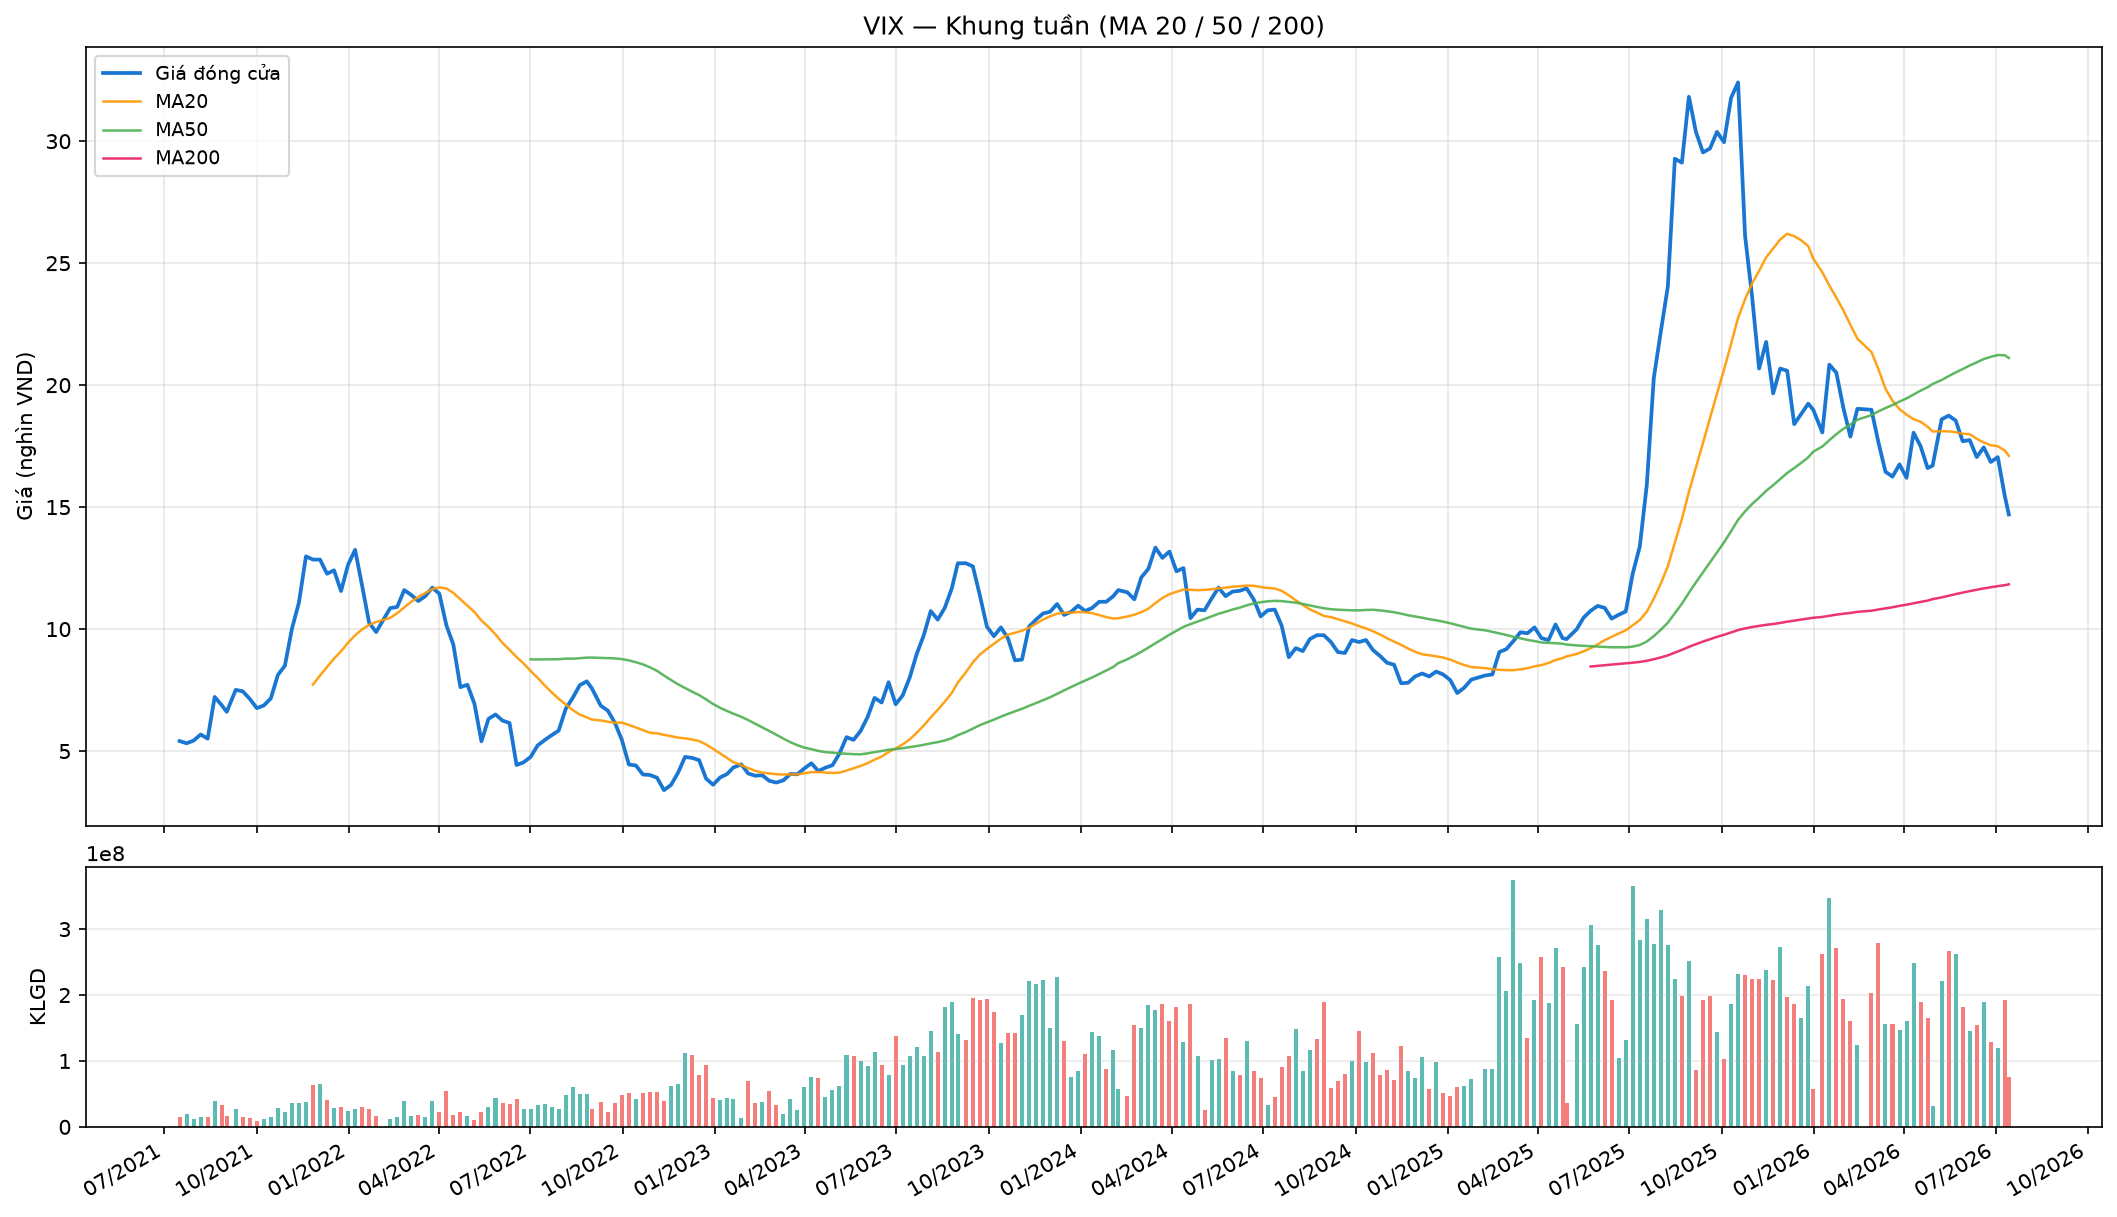
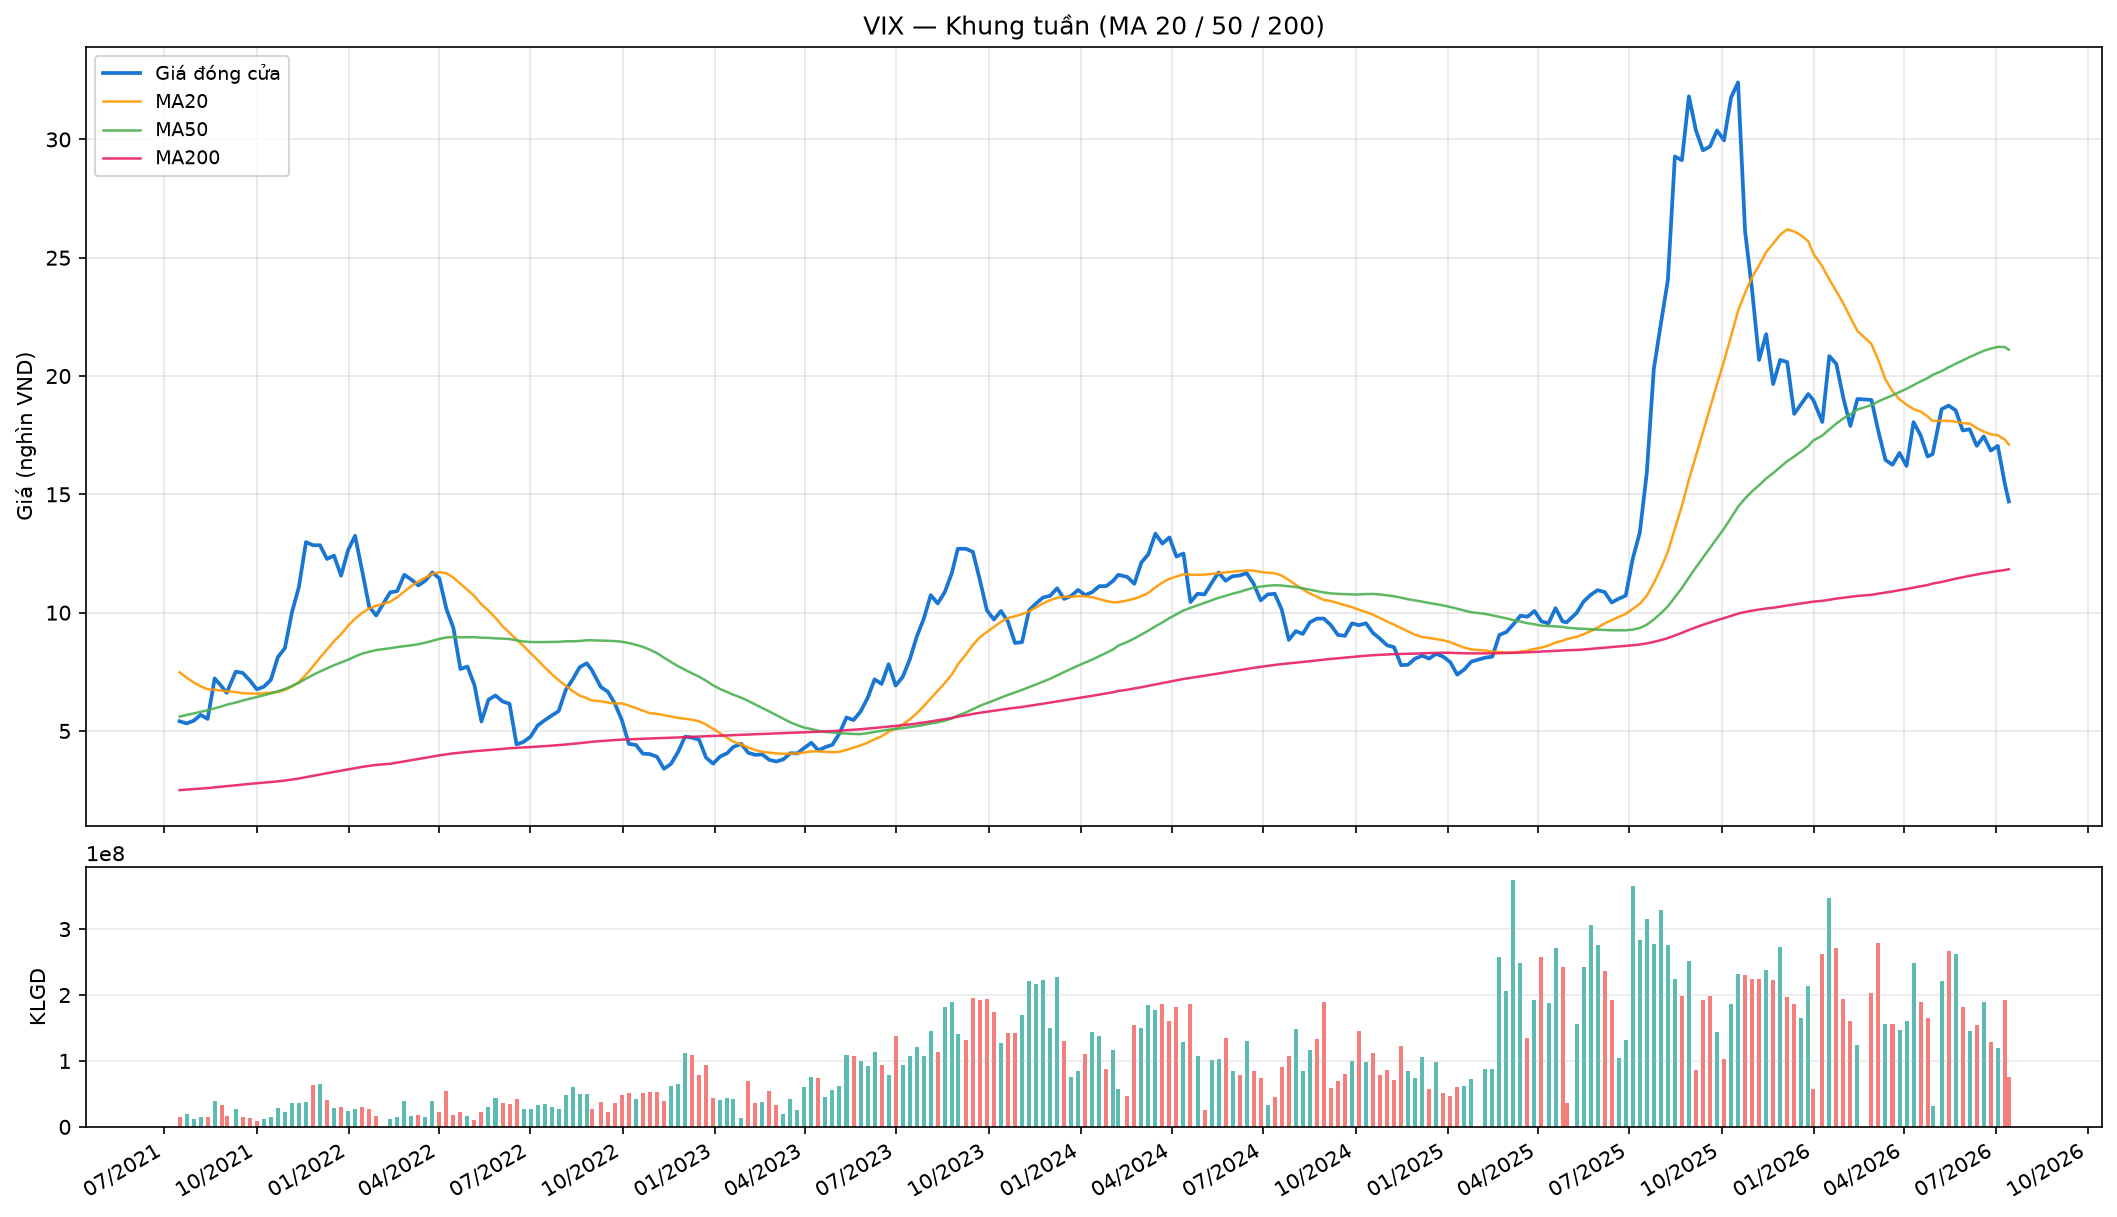
Add guide run Agent

diff --git a/README.md b/README.md
@@ -1,43 +1,281 @@
-# Stock Agents
+# InvestAgent — Stock Agents
 
-LangChain agents phân tích cổ phiếu Việt Nam với `vnstock` + OpenAI web search.
+Bộ agent LangChain phân tích cổ phiếu Việt Nam, kết hợp dữ liệu `vnstock` và OpenAI (web search + phân tích có cấu trúc).
+
+| Thành phần | Mô tả |
+|------------|--------|
+| **ShortTermAgent** | Quét mã, tìm điểm mua swing 1–2 tháng |
+| **PortfolioAgent** | Tư vấn danh mục đã nắm giữ (mua thêm / giữ / giảm / bán) |
+| **evaluate** | Đánh giá win-rate khuyến nghị từ log lịch sử |
+| **backtest-score** | Backtest điểm kỹ thuật trên dữ liệu quá khứ |
+| **weekly_ma_chart.py** | Biểu đồ khung tuần MA20/50/200 + khối lượng (không cần OpenAI) |
+
+---
+
+## Yêu cầu
+
+- Python **3.10+**
+- Tài khoản OpenAI (cho các agent phân tích)
+- Thư viện `vnstock` (miễn phí, lấy giá & dữ liệu thị trường)
+
+---
 
 ## Cài đặt
 
+Chạy các lệnh trong thư mục `InvestAgent`:
+
 ```bash
+cd InvestAgent
+
+# Tạo môi trường ảo (khuyến nghị)
+python -m venv .venv
+
+# Windows PowerShell
+.\.venv\Scripts\Activate.ps1
+
+# macOS / Linux
+# source .venv/bin/activate
+
+# Cài package + dev dependencies (pytest)
 pip install -e ".[dev]"
 ```
 
-Thiết lập `.env`:
+Hoặc cài từ `requirements.txt` rồi editable install:
 
+```bash
+pip install -r requirements.txt
+pip install -e .
 ```
+
+Sau khi cài, có thể gọi CLI bằng một trong hai cách:
+
+```bash
+python -m stock_agents --help
+stock-agents --help
+```
+
+---
+
+## Cấu hình `.env`
+
+Tạo file `.env` tại thư mục `InvestAgent`:
+
+```env
 OPENAI_API_KEY=sk-...
+
+# Tuỳ chọn
+STOCK_AGENT_MODEL=gpt-4.1
+STOCK_AGENT_TEMPERATURE=0.2
+STOCK_AGENT_OUTPUT_DIR=outputs
 ```
 
-## Agent 1 — Quét điểm mua swing 1-2 tháng
+> Hỗ trợ cả `OPEN_AI_KEY` (tên cũ) nếu project của bạn đang dùng biến đó.
+
+Các agent **short-term** và **portfolio** bắt buộc có API key. Công cụ `weekly_ma_chart.py` chỉ cần `vnstock`, không cần OpenAI.
+
+---
+
+## Agent 1 — Short-term (swing 1–2 tháng)
+
+Quét danh sách mã, phân tích bối cảnh thị trường + kỹ thuật + tin tức, đưa ra khuyến nghị:
+
+| Action | Ý nghĩa |
+|--------|---------|
+| `BUY` | Đủ điều kiện mua swing |
+| `WATCH` | Tiềm năng, chưa đủ trigger |
+| `AVOID` | Rủi ro cao / không phù hợp |
 
 ```bash
-python -m stock_agents short-term FPT VHM VIC --as-of 2026-04-07
+# Phân tích nhiều mã
+python -m stock_agents short-term FPT VHM VIC
+
+# Backtest tại ngày cụ thể
+python -m stock_agents short-term FPT GEX VHM --as-of 2026-04-07
+
+# Tuỳ chọn thêm
+python -m stock_agents short-term FPT VHM VIC \
+  --history-days 365 \
+  --source VCI \
+  --top-n 3 \
+  --model gpt-4.1 \
+  --no-stream
 ```
 
-## Agent 2 — Quản lý danh mục đã mua
+| Tham số | Mặc định | Mô tả |
+|---------|----------|--------|
+| `symbols` | (bắt buộc) | ≥1 mã CK |
+| `--as-of` | hôm nay | Ngày cắt dữ liệu `YYYY-MM-DD` |
+| `--history-days` | `365` | Số ngày lịch sử giá |
+| `--source` | `VCI` | Nguồn `VCI` hoặc `KBS` (tự fallback) |
+| `--top-n` | `3` | Số mã ưu tiên trong báo cáo |
+| `--model` | `gpt-4.1` | Model OpenAI |
+| `--no-stream` | — | Tắt stream output khi chạy |
+
+---
+
+## Agent 2 — Portfolio (danh mục đã mua)
+
+Phân tích vị thế đang nắm giữ, gợi ý hành động tiếp theo:
+
+| Action | Ý nghĩa |
+|--------|---------|
+| `ADD` | Mua thêm |
+| `HOLD` | Giữ nguyên |
+| `REDUCE` | Giảm tỷ trọng |
+| `SELL` | Thoát vị thế |
+| `WATCH` | Theo dõi thêm |
 
 ```bash
-python -m stock_agents portfolio --position FPT:100:95.5 --position VHM:200:42.0
+# Một hoặc nhiều vị thế: SYMBOL:SL_LUONG:GIA_VON
+python -m stock_agents portfolio \
+  --position FPT:100:95.5 \
+  --position VHM:200:42.0
+
+# Có tiền mặt khả dụng
+python -m stock_agents portfolio \
+  --position FPT:100:95.5 \
+  --cash 50000000 \
+  --as-of 2026-04-07
 ```
+
+| Tham số | Mặc định | Mô tả |
+|---------|----------|--------|
+| `--position` | (bắt buộc, lặp) | `SYMBOL:QTY:PRICE` |
+| `--as-of` | hôm nay | Ngày cắt dữ liệu |
+| `--history-days` | `365` | Số ngày lịch sử |
+| `--source` | `VCI` | Nguồn dữ liệu |
+| `--cash` | — | Tiền mặt khả dụng (VND) |
+| `--model` | `gpt-4.1` | Model OpenAI |
+| `--no-stream` | — | Tắt stream output |
+
+---
+
+## Đánh giá khuyến nghị (`evaluate`)
+
+Đọc log từ các lần chạy short-term, tính win-rate / R-multiple / return trung bình.
+
+```bash
+# Đánh giá tất cả khuyến nghị đủ điều kiện
+python -m stock_agents evaluate
+
+# Đánh giá đến ngày cụ thể
+python -m stock_agents evaluate --as-of 2026-07-13
+
+# Một horizon (28 ngày)
+python -m stock_agents evaluate --horizon 28
+
+# Đa horizon 14/28/56 ngày (2/4/8 tuần)
+python -m stock_agents evaluate --multi-horizon
+
+# Chỉ đánh giá BUY
+python -m stock_agents evaluate --actions BUY --horizon 42
+```
+
+> Cần chạy `short-term` trước để ghi log vào `outputs/recommendations.jsonl`.
+
+---
+
+## Backtest điểm kỹ thuật (`backtest-score`)
+
+Walk-forward backtest score kỹ thuật trên lịch sử (không gọi OpenAI).
+
+```bash
+# Theo danh sách mã
+python -m stock_agents backtest-score FPT VHM HCM
+
+# Theo watchlist trong agents.json
+python -m stock_agents backtest-score --watchlist vn30_sample
+
+# Khoảng thời gian tuỳ chỉnh
+python -m stock_agents backtest-score FPT VHM \
+  --start 2025-01-01 \
+  --end 2026-07-01 \
+  --forward-days 21 42 \
+  --step 21
+```
+
+Tạo `agents.json` ở thư mục gốc `InvestAgent` nếu dùng `--watchlist`:
+
+```json
+{
+  "watchlists": {
+    "vn30_sample": ["FPT", "VHM", "VIC", "HCM", "MWG"]
+  },
+  "portfolios": {
+    "demo": [
+      {"symbol": "FPT", "quantity": 100, "avg_price": 95.5}
+    ]
+  }
+}
+```
+
+---
+
+## Biểu đồ MA tuần (`weekly_ma_chart.py`)
+
+Công cụ độc lập — vẽ giá khung tuần với MA20/50/200 và khối lượng. Tự tải thêm dữ liệu warmup để MA200 hiển thị đầy đủ trên khung thời gian chọn.
+
+```bash
+# Mặc định FPT, lưu outputs/charts/FPT_weekly_ma.png
+python weekly_ma_chart.py
+
+python weekly_ma_chart.py VIX --years 7
+python weekly_ma_chart.py FPT --years 10 --source kbs
+python weekly_ma_chart.py HPG --show
+python weekly_ma_chart.py VCB --no-volume
+```
+
+| Tham số | Mặc định | Mô tả |
+|---------|----------|--------|
+| `symbol` | `FPT` | Mã cổ phiếu |
+| `--years` | `5` | Số năm hiển thị (khuyến nghị **7–10** để thấy rõ MA200) |
+| `--source` | `kbs` | `kbs` hoặc `vci` |
+| `--save` | `outputs/charts/{SYMBOL}_weekly_ma.png` | Đường dẫn file PNG |
+| `--show` | — | Hiện cửa sổ thay vì lưu file |
+| `--no-volume` | — | Ẩn biểu đồ khối lượng |
+
+---
+
+## Chạy batch hàng tuần (tuỳ chọn)
+
+Script tự động chạy short-term theo từng tuần rồi evaluate đa horizon:
+
+```bash
+python scripts/weekly_agent_batch.py
+```
+
+Chỉnh danh sách mã và khoảng ngày trong file `scripts/weekly_agent_batch.py` trước khi chạy.
+
+---
 
 ## Output
 
-- Báo cáo markdown: `outputs/SHORT_TERM_*.md` hoặc `outputs/PORTFOLIO_*.md`
-- Biểu đồ PNG: `outputs/charts/`
-- Mã `BUY` có đường dự báo (kịch bản tham khảo)
+Tất cả output mặc định nằm trong `outputs/` (hoặc `STOCK_AGENT_OUTPUT_DIR`):
 
-## Spec
+| Loại | Đường dẫn |
+|------|-----------|
+| Báo cáo short-term | `outputs/SHORT_TERM_*.md` |
+| Báo cáo portfolio | `outputs/PORTFOLIO_*.md` |
+| Báo cáo evaluate | `outputs/EVALUATION_*.md` |
+| Báo cáo backtest score | `outputs/SCORE_BACKTEST_*.md` |
+| Biểu đồ agent | `outputs/charts/{SYMBOL}_chart.png` |
+| Biểu đồ portfolio | `outputs/charts/{SYMBOL}_portfolio.png` |
+| Biểu đồ MA tuần | `outputs/charts/{SYMBOL}_weekly_ma.png` |
+| Log khuyến nghị | `outputs/recommendations.jsonl` |
 
-Xem [specs/stock-agents-spec.md](specs/stock-agents-spec.md)
+- Mã `BUY` (short-term) có thêm **đường dự báo** trên biểu đồ (kịch bản tham khảo, không phải dữ liệu thực).
+- Biểu đồ agent dùng khung **ngày** (MA20/MA50); `weekly_ma_chart.py` dùng khung **tuần** (MA20/50/200).
 
-## Test
+---
+
+## Kiểm thử
 
 ```bash
 pytest tests/ -q
 ```
+
+---
+
+## Tài liệu chi tiết
+
+Xem [specs/stock-agents-spec.md](specs/stock-agents-spec.md) cho input/output schema, quy tắc quyết định và validation.